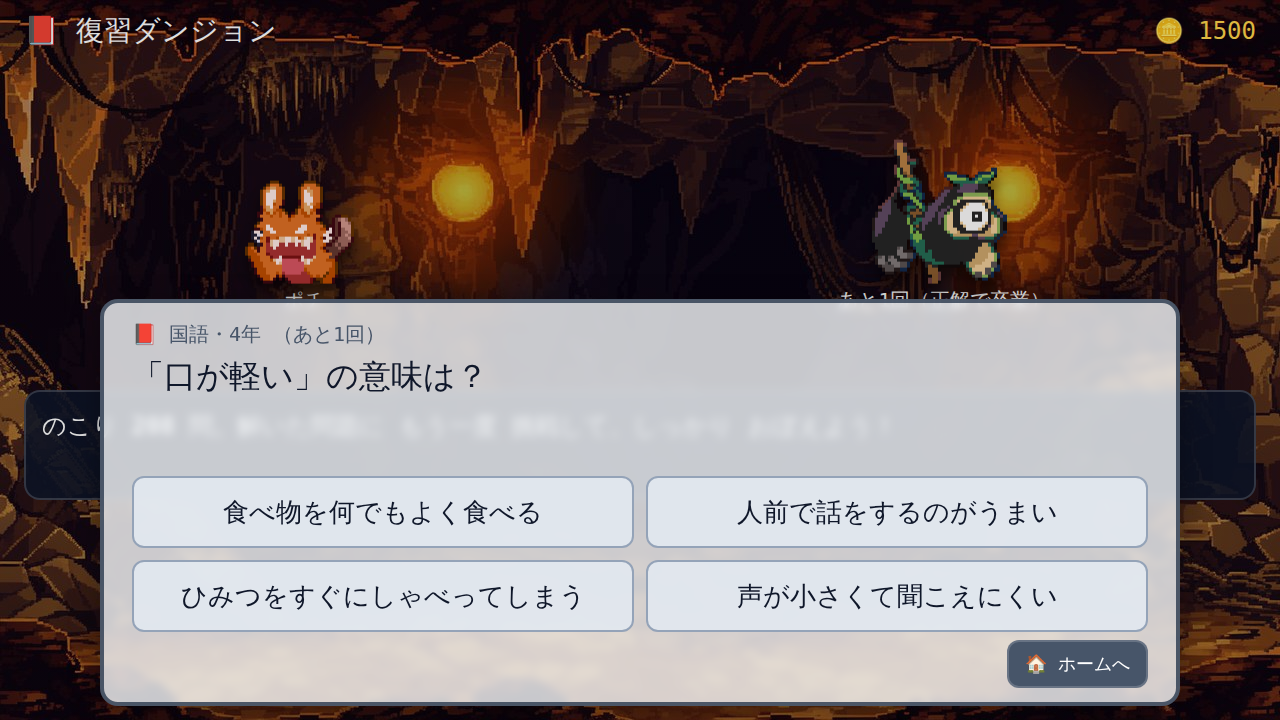
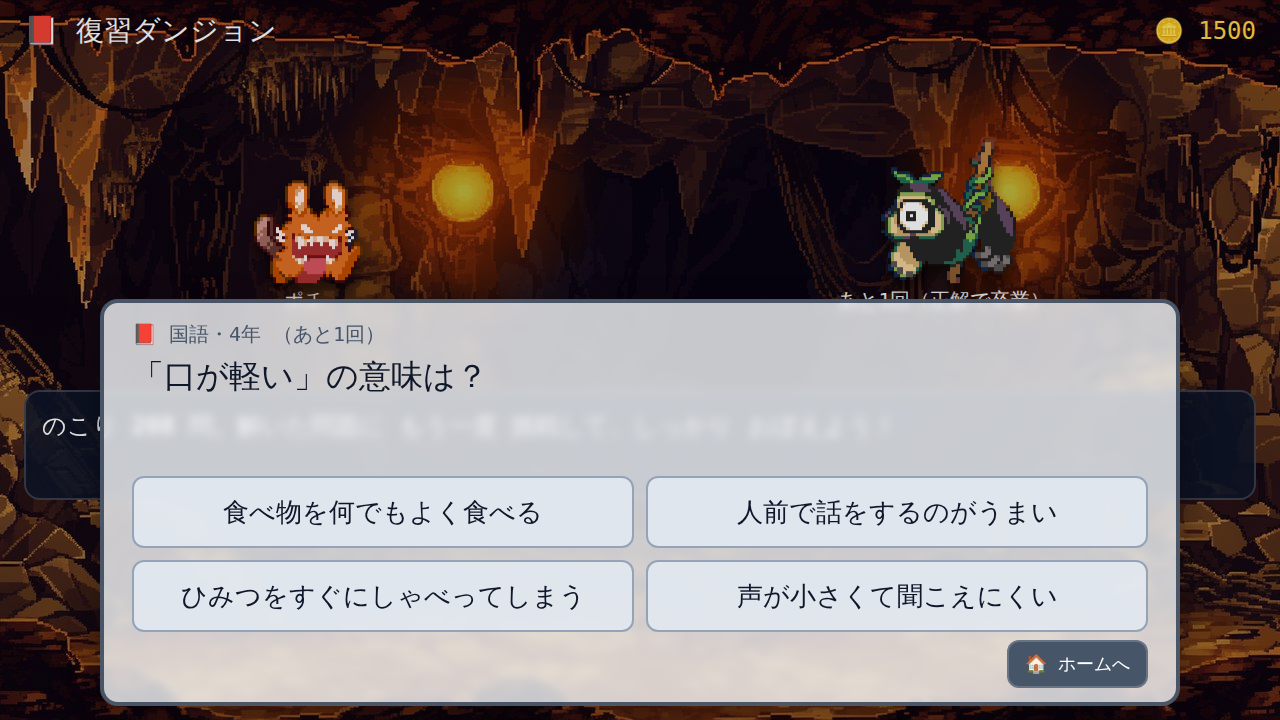
戦闘で右側にいるモンスター（ボス・雑魚・対戦のプレイヤーB）を反転して左向きに
- 素材の絵は ぜんぶ右向きにそろえた（もとが左向きの数体は 素材リポジトリ側で反転）
- 左側の主人公は そのまま右向き

Claude-Session: https://claude.ai/code/session_01VSVSxW2cDN42XVaoPQurWi

Changed region(s): [[0.6562, 0.1833, 0.8125, 0.3972], [0.1875, 0.2444, 0.2812, 0.3972]]

diff --git a/index.html b/index.html
@@ -153,7 +153,8 @@ input{font-family:var(--f);font-size:28px;padding:8px 12px;border-radius:10px;bo
 /* ドット絵のモンスター：ふわふわ動く・影・主人公は相手のほうを向く */
 @keyframes bob{0%,100%{transform:translateY(0)}50%{transform:translateY(-6px)}}
 .chara .emo .art img,.fighter .emo .art img,.field .me .art img,.field .foe .art img{animation:bob 1.6s ease-in-out infinite;filter:drop-shadow(0 10px 6px rgba(0,0,0,.45))}
-#fP .emo .art,.field .me .art{display:inline-block;transform:scaleX(-1)}
+/* 素材の絵は ぜんぶ右向きにそろえてある → 右側にいるもの（ボス・雑魚・対戦のプレイヤーB）は反転して 左向きに */
+#fB .emo .art,.field .foe .art{display:inline-block;transform:scaleX(-1)}
 .fighter.hit .art img{animation:none}
 /* ガチャ */
 .magic{width:260px;height:260px;border-radius:50%;border:6px dashed var(--c,#a78bfa);box-shadow:0 0 30px var(--c,#a78bfa),inset 0 0 40px var(--c,#a78bfa);opacity:.85}
